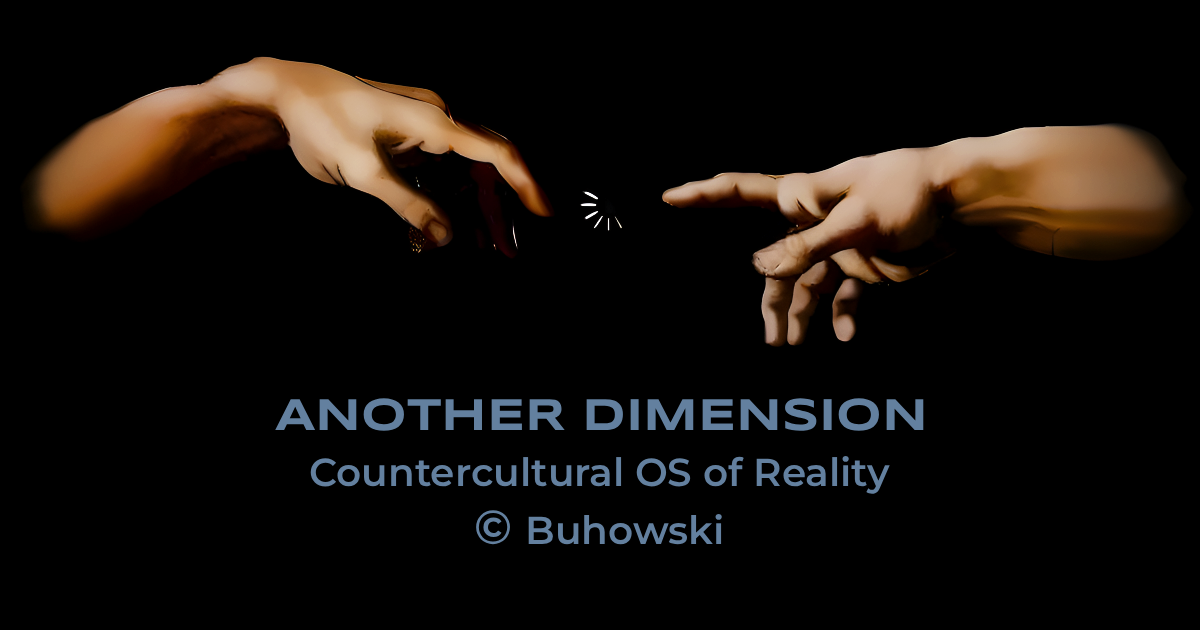
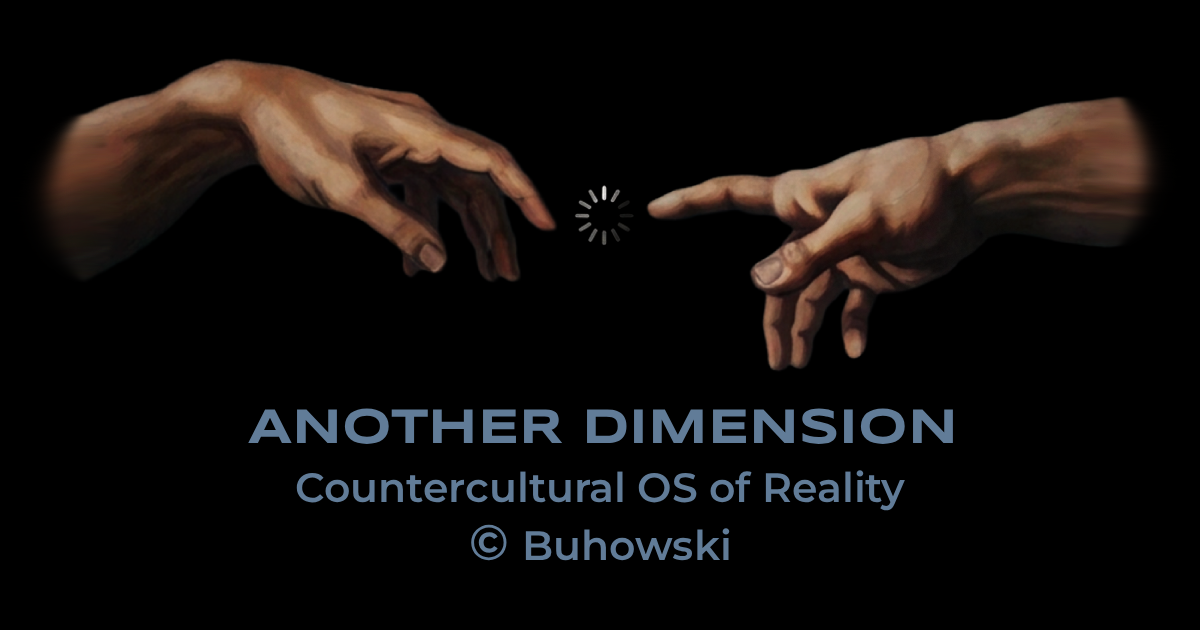
upload new preview portfolio images + meta screenshots

Changed region(s): [[0.0, 0.0905, 0.9867, 0.6032], [0.2158, 0.6333, 0.8017, 0.9048], [0.0617, 0.3921, 0.0925, 0.4222]]

diff --git a/src/pages/projects/projectsData.tsx b/src/pages/projects/projectsData.tsx
@@ -1,7 +1,6 @@
 import bgFaberBooks from './images/faber-books.jpg';
 import bgBentley from './images/bentley-skinner.jpg';
-// import bgStartup from './images/another-dimension-vision-by-buhowski.jpg';
-import bgStartup from './images/1.jpg';
+import bgStartup from '../../assets/startup/another-dimension-universe-vision-by-olexander-buhowski.jpg';
 import nascentdesign from './images/nascent-design-portfolio-frontend.jpg';
 import hbv from './images/homes-by-victoria.jpg';
 import mb from './images/mark-buchanan-property.jpg';
@@ -13,9 +12,10 @@ const projectsData = [
 		img: bgStartup,
 		url: pathToVision,
 		urlCode: 'https://github.com/buhowski/digital-ecosystem',
-		name: 'Media Ecosystem',
+		name: 'Digital Ecosystem',
 		year: '2026',
-		description: `100% Lighthouse score achieved. Multilingual, cross-industry architecture designed.`,
+		description:
+			'100% Lighthouse score achieved. Multilingual PWA architecture. Full-cycle startup ecosystem (Founder).',
 		skills: [
 			'React',
 			'TypeScript',
@@ -29,7 +29,7 @@ const projectsData = [
 			'CI/CD',
 			'UI/UX',
 		],
-		alt: 'Screenshot of My Startups project homepage showcasing startup business plans, full development cycle execution, React and TypeScript programming, UI/UX design, creative scripting, genius-level problem solving, strategic brainstorming, innovative design systems, SCSS styling, SEO optimization, Progressive Web App functionality, media innovation, tech entrepreneurship, interactive digital solutions, inventive coding, forward-thinking creative projects',
+		alt: 'Media Ecosystem startup homepage by Olexander Buhowski - Another Dimension Universe Vision, React TypeScript frontend developer portfolio, UI UX web design, PWA, SEO optimization, custom web development showcase',
 	},
 
 	{
@@ -37,29 +37,9 @@ const projectsData = [
 		url: `https://nascentdesign.com`,
 		name: 'Nascent Design',
 		year: '2022',
-		description: `Responsive Design with GSAP animations`,
+		description: 'Fluid GSAP animations. Interactive visual components. Fully responsive layout.',
 		skills: ['JavaScript', 'GSAP', 'SCSS'],
-		alt: 'Screenshot of Nascent Design website homepage with animations',
-	},
-
-	{
-		img: mb,
-		url: 'https://markbuchananproperty.co.uk/',
-		name: 'Mark Buchanan',
-		year: '2025',
-		description: 'Conversion‑focused WordPress e‑commerce with responsive UI/UX',
-		skills: ['JavaScript', 'SCSS', 'WordPress', 'PHP'],
-		alt: 'Screenshot of Mark Buchanan property website homepage',
-	},
-
-	{
-		img: hbv,
-		url: 'https://homesbyvictoria.co.uk/',
-		name: 'Homes By Victoria',
-		year: '2024',
-		description: 'Custom WordPress e‑commerce with optimized UI/UX',
-		skills: ['JavaScript', 'SCSS', 'WordPress', 'PHP'],
-		alt: 'Screenshot of Homes By Victoria real estate website homepage',
+		alt: 'Nascent Design website homepage - GSAP animated interactive web design, JavaScript SCSS frontend developer portfolio project, custom web development showcase by Olexander Buhowski',
 	},
 
 	{
@@ -67,9 +47,20 @@ const projectsData = [
 		url: 'https://www.bentley-skinner.co.uk',
 		name: 'Bentley & Skinner',
 		year: '2021',
-		description: 'Pixel Perfect WordPress e‑commerce with GSAP & Barba.js transitions',
+		description:
+			'Pixel-perfect luxury e-commerce. Seamless Barba.js transitions. GSAP visual effects.',
 		skills: ['JavaScript', 'Barba.js', 'GSAP', 'SCSS', 'WordPress'],
-		alt: 'Screenshot of Bentley & Skinner jewelry and antique website homepage',
+		alt: 'Bentley and Skinner luxury jewelry e-commerce website - custom WordPress web design, GSAP Barba.js smooth page transitions, frontend developer portfolio showcase by Olexander Buhowski',
+	},
+
+	{
+		img: mb,
+		url: 'https://markbuchananproperty.co.uk/',
+		name: 'Mark Buchanan',
+		year: '2025',
+		description: 'Custom WordPress e-commerce. Conversion-focused UI/UX. Optimized PHP backend.',
+		skills: ['JavaScript', 'SCSS', 'WordPress', 'PHP'],
+		alt: 'Mark Buchanan property e-commerce website - WordPress PHP custom web development, responsive UI UX design, real estate frontend portfolio project by Olexander Buhowski',
 	},
 
 	{
@@ -77,9 +68,19 @@ const projectsData = [
 		url: 'https://www.faber.co.uk/',
 		name: 'Faber',
 		year: '2021',
-		description: 'Pixel Perfect WordPress e‑commerce with responsive UI/UX',
+		description: 'High-traffic publishing e-commerce. Pixel-perfect layout. GSAP animation.',
 		skills: ['JavaScript', 'GSAP', 'SCSS', 'WordPress', 'Pixel Perfect'],
-		alt: 'Screenshot of Faber Books publisher website homepage',
+		alt: 'Faber Books publisher e-commerce website homepage - pixel perfect WordPress web development, GSAP animations, responsive UI UX design, frontend portfolio project by Olexander Buhowski',
+	},
+
+	{
+		img: hbv,
+		url: 'https://homesbyvictoria.co.uk/',
+		name: 'Homes By Victoria',
+		year: '2024',
+		description: 'Custom WordPress e-commerce. Conversion-focused UI/UX. Optimized PHP backend.',
+		skills: ['JavaScript', 'SCSS', 'WordPress', 'PHP'],
+		alt: 'Homes By Victoria real estate e-commerce website homepage - custom WordPress web development, SCSS PHP UI UX design, frontend portfolio project by Olexander Buhowski',
 	},
 ];
 

diff --git a/src/pages/startups/pages/dataSlider.tsx b/src/pages/startups/pages/dataSlider.tsx
@@ -1,5 +1,5 @@
 // Images
-import planPoster from '../../../assets/startup/another-dimension-vision-by-buhowski.jpg';
+import planPoster from '../../../assets/startup/another-dimension-universe-vision-by-olexander-buhowski.jpg';
 import posterProjectsDev from '../../../assets/startup/brain.jpg';
 import writer from '../../../assets/startup/writer.webp';
 import posterOnceInUkraine from '../../../assets/startup/cinema/once.webp';
@@ -17,7 +17,7 @@ export const dataSliderProjectDev = [
 	{
 		itemSrc: posterProjectsDev,
 		itemAlt:
-			'Illustration of collaborative project development — games, films, animation, indie media and startup ventures, made by Buhowski.',
+			'Illustration of collaborative project development — games, films, animation, indie media and startup ventures, made by Olexander Buhowski.',
 	},
 ];
 
@@ -25,7 +25,7 @@ export const dataSliderVision = [
 	{
 		itemSrc: planPoster,
 		itemAlt:
-			'Illustration of a next-gen media platform — film, gamedev, production, Tech, IT, counterculture and digital storytelling, made by Buhowski.',
+			'Illustration of a next-gen media platform — film, gamedev, production, Tech, IT, counterculture and digital storytelling, made by Olexander Buhowski.',
 	},
 ];
 
@@ -41,7 +41,7 @@ export const dataSliderOnceInUkraine = [
 	{
 		itemSrc: posterOnceInUkraine,
 		itemAlt:
-			'Once Upon a Time in Ukraine — social drama poster, young couple, Ukrainian city block, cinematic realism, made by Buhowski.',
+			'Once Upon a Time in Ukraine — social drama poster, young couple, Ukrainian city block, cinematic realism, made by Olexander Buhowski.',
 	},
 ];
 
@@ -49,7 +49,7 @@ export const dataSliderVolynWedding = [
 	{
 		itemSrc: posterVolynWedding,
 		itemAlt:
-			"Volyn Wedding: Groom's Room — dark comedy poster, six battered characters on a broken Soviet car, Ukrainian countryside, made by Buhowski.",
+			"Volyn Wedding: Groom's Room — dark comedy poster, six battered characters on a broken Soviet car, Ukrainian countryside, made by Olexander Buhowski.",
 	},
 ];
 
@@ -57,7 +57,7 @@ export const dataSliderSheHe = [
 	{
 		itemSrc: posterSheHe,
 		itemAlt:
-			'She + He — tragic romance poster, man in devil armor and woman as goddess at masquerade, urban mystical atmosphere, made by Buhowski.',
+			'She + He — tragic romance poster, man in devil armor and woman as goddess at masquerade, urban mystical atmosphere, made by Olexander Buhowski.',
 	},
 ];
 
@@ -65,12 +65,12 @@ export const dataSliderWoodenFiction = [
 	{
 		itemSrc: poster2WoodenFiction,
 		itemAlt:
-			'Wooden Fiction — animated dark crime comedy poster, twisted fairytale characters, post-Soviet grotesque style, made by Buhowski.',
+			'Wooden Fiction — animated dark crime comedy poster, twisted fairytale characters, post-Soviet grotesque style, made by Olexander Buhowski.',
 	},
 	{
 		itemSrc: posterWoodenFiction,
 		itemAlt:
-			'Wooden Fiction — animated dark crime comedy poster, twisted fairytale characters, post-Soviet grotesque style, made by Buhowski.',
+			'Wooden Fiction — animated dark crime comedy poster, twisted fairytale characters, post-Soviet grotesque style, made by Olexander Buhowski.',
 	},
 ];
 
@@ -78,14 +78,14 @@ export const dataSliderLilithsAdventure = [
 	{
 		itemSrc: posterLilithsAdventure,
 		itemAlt:
-			"Lilith's Adventure — animated comedy poster, adventurer girl exploring parallel worlds with a magical diary, made by Buhowski.",
+			"Lilith's Adventure — animated comedy poster, adventurer girl exploring parallel worlds with a magical diary, made by Olexander Buhowski.",
 	},
 	{
 		itemPoster: LilithVideoExamplePoster,
 		itemSrc: LilithVideoExample,
 		itemAlt:
-			"Lilith's Adventure — wanderer lost in parallel dimensions, surreal multiverse comedy inspired by Rick and Morty, made by Buhowski.",
+			"Lilith's Adventure — wanderer lost in parallel dimensions, surreal multiverse comedy inspired by Rick and Morty, made by Olexander Buhowski.",
 		itemCaption:
-			"The wanderer's endless search across dimensions (Post-credit ref — Rick & Morty S7E5), made by Buhowski.",
+			"The wanderer's endless search across dimensions (Post-credit ref — Rick & Morty S7E5)",
 	},
 ];

diff --git a/src/pages/projects/Projects.scss b/src/pages/projects/Projects.scss
@@ -59,8 +59,9 @@
 
 	&:first-child {
 		img {
+			object-fit: contain;
+			object-position: center 38%;
 			height: 100%;
-			object-fit: cover;
 		}
 	}
 
@@ -93,10 +94,9 @@
 		color: $text-color;
 		overflow: hidden;
 		z-index: 4;
-		transform: translateY(calc(100% - 64px));
+		transform: translateY(calc(100% - 67px));
 		transition: transform var(--hover-delay);
 		border-top: 1px solid var(--border-color);
-		will-change: transform;
 
 		// .project-description__container
 		&__container {
@@ -109,7 +109,7 @@
 			justify-content: space-between;
 			align-items: baseline;
 			margin-bottom: 20px;
-			gap: 15px;
+			gap: 10px;
 
 			&:hover {
 				.project-description__name {
@@ -123,7 +123,7 @@
 			color: $body-color;
 			font-family: $LouisGeorgeCafBold;
 			letter-spacing: 1px;
-			font-size: 19px;
+			font-size: 21px;
 			overflow: hidden;
 			text-overflow: ellipsis;
 			white-space: nowrap;
@@ -172,22 +172,20 @@
 		// .project-description__actions
 		&__actions {
 			display: flex;
-			// justify-content: center;
 			gap: 25px;
 		}
 
 		&__action {
 			text-align: center;
 			font-family: $LouisGeorgeCafBold;
-			// text-transform: lowercase;
 			padding: 8px 10px;
 			flex-grow: 1;
 			width: 100%;
-			max-width: 145px;
+			max-width: 150px;
 			letter-spacing: 1.4px;
 			border-radius: 10px;
 			color: var(--action-color);
-			border: 1px solid rgba($link-color, 0.5);
+			border: 1px solid rgba($link-color, 0.55);
 			background-color: #000000;
 			transition:
 				box-shadow $transition-s,
@@ -250,5 +248,14 @@
 				animation: LowLine 0.4s infinite;
 			}
 		}
+
+		.project-link__img {
+			transform: scale(1.28);
+		}
+	}
+
+	img {
+		transition: transform $transition-l;
+		will-change: transform;
 	}
 }

diff --git a/public/index.html b/public/index.html
@@ -105,7 +105,7 @@
       -ms-user-select: none;
       user-select: none;
       cursor: default;
-      min-height: 100dvh;
+      min-height: 100vh;
       overflow-x: hidden;
     }
 
